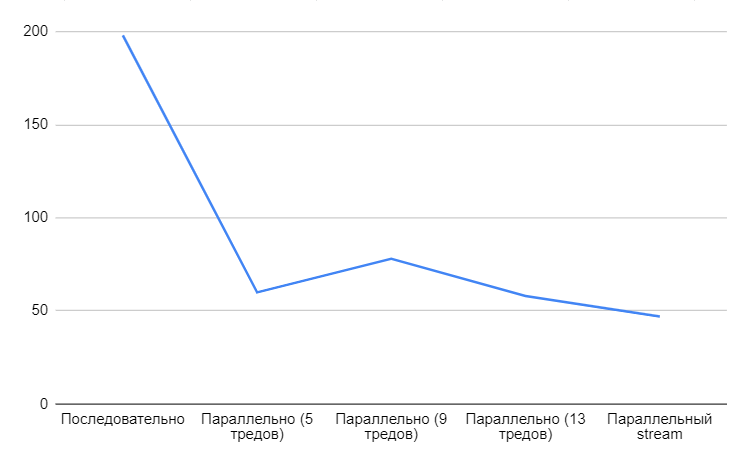
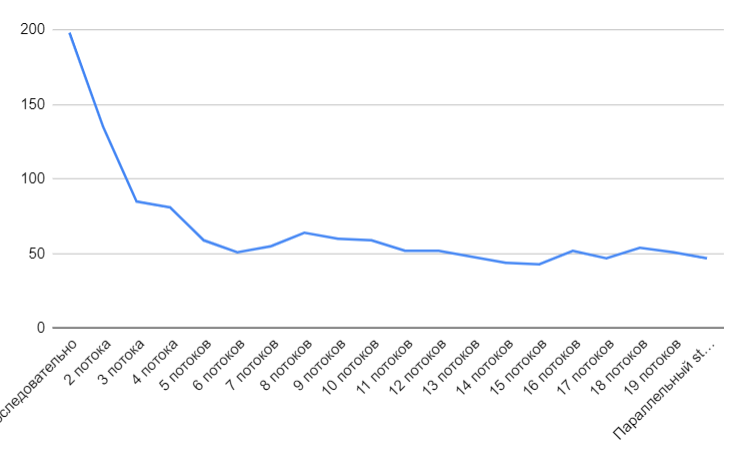
changed data + graph

diff --git a/Task_2_1_1/src/test/java/GettingDataForGraphTest.java b/Task_2_1_1/src/test/java/GettingDataForGraphTest.java
@@ -34,26 +34,21 @@ public class GettingDataForGraphTest {
     }
 
     @Test
-    public void calcTimeForMultipleThread() {
-        new ParallelFinder(testData, 9).checkThatAllIsPrime();
-    }
-
-    @Test
-    public void calcTimeForMultipleThread_1() {
-        new ParallelFinder(testData, 5).checkThatAllIsPrime();
-    }
-
-    @Test
-    public void calcTimeForMultipleThread_2() {
-        new ParallelFinder(testData, 13).checkThatAllIsPrime();
-    }
-
-    @Test
     public void calcTimeForParallelStream() {
         Optional<Boolean> result = testData.stream()
                 .parallel()
                 .map(SinglePrimeChecker::isPrime)
                 .reduce((x, y) -> x && y);
     }
+
+    @Test
+    public void calcTimeForMultipleThreads(){
+        for(int i = 2; i < 20; i++){
+            Long started = System.nanoTime();
+            new ParallelFinder(testData, i).checkThatAllIsPrime();
+            System.out.printf("%d: %d\n", i,  (System.nanoTime() - started) / 1000000);
+        }
+    }
+
 
 }
